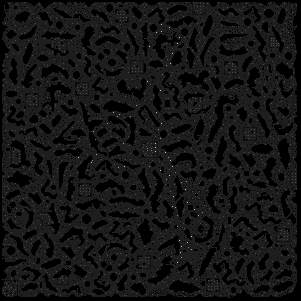
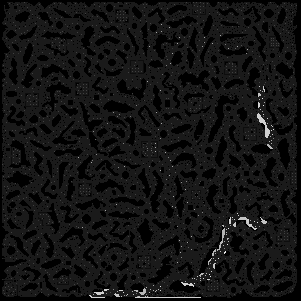
修改文案提示的坐标为可用示例，地图信息更新

diff --git a/python/game_map/mori_best_way_find.py b/python/game_map/mori_best_way_find.py
@@ -25,6 +25,11 @@ from config.mori_map_config import SCALE_SIZE
 11 位置 132 94  C00000 [240, 240, 240] 深红  帐篷-fgColor.rgb 
 12 位置 162 32  4290FF [ 66, 144, 255] 青蓝  工厂-fgColor.rgb 
 13 位置 170 28  A219FF [162,  25, 255] 浅紫  房屋-fgColor.rgb 
+14 位置 261 91  598F38 [ 89, 143,  56] 深绿  热带树-fgColor.rgb 
+15 位置 264 87  E5F3F1 [229, 243, 241] 白灰  石头-fgColor.rgb 
+16 位置 260 87  355522 [ 53,  85,  34] 深绿  深绿树-fgColor.rgb 
+17 位置 274 130 BEFF9E [190, 255, 158] 浅绿  带花草-fgColor.rgb 
+18 位置 263 99  89FF8B [137, 255, 139] 浅绿  小草-fgColor.rgb 
 """
 type_map = {
     0: {"name": "草地岩石", "useful": False, "reach": False},
@@ -41,7 +46,11 @@ type_map = {
     11: {"name": "帐篷", "useful": True, "reach": True},
     12: {"name": "工厂", "useful": True, "reach": True},
     13: {"name": "房屋", "useful": True, "reach": True},
-
+    14: {"name": "热带树", "useful": False, "reach": False},
+    15: {"name": "石头", "useful": False, "reach": False},
+    16: {"name": "深绿树", "useful": False, "reach": False},
+    17: {"name": "带花草", "useful": False, "reach": False},
+    18: {"name": "小草", "useful": False, "reach": False},
 }
 
 global_result_map = None
@@ -205,20 +214,20 @@ def get_the_way_between_2_point(map, result_map, start_point, end_point, row_n, 
             if cur_p.y > pre_p.y:
                 msg = ("第{}次:向下走{}步到达({},{})".format(step, cur_p.y - pre_p.y, cur_p.x + 1, cur_p.y + 1))
                 if move >= steps and steps > 0:
-                    msg += "\n第{}步你将停留在{},{}".format(steps_bak, pre_p.x + 1, pre_p.y + 1 + steps)
+                    msg += "\n第{}步你将【停留在{},{}】".format(steps_bak, pre_p.x + 1, pre_p.y + 1 + steps)
             if cur_p.y < pre_p.y:
                 msg = ("第{}次:向上走{}步到达({},{})".format(step, pre_p.y - cur_p.y, cur_p.x + 1, cur_p.y + 1))
                 if move >= steps and steps > 0:
-                    msg += "\n第{}步你将停留在{},{}".format(steps_bak, pre_p.x + 1, pre_p.y + 1 - steps)
+                    msg += "\n第{}步你将【停留在{},{}】".format(steps_bak, pre_p.x + 1, pre_p.y + 1 - steps)
         if cur_p.y == pre_p.y:
             if cur_p.x > pre_p.x:
                 msg = ("第{}次:向右走{}步到达({},{})".format(step, cur_p.x - pre_p.x, cur_p.x + 1, cur_p.y + 1))
                 if move >= steps and steps > 0:
-                    msg += "\n第{}步你将停留在{},{}".format(steps_bak, pre_p.x + 1 + steps, pre_p.y + 1)
+                    msg += "\n第{}步你将【停留在{},{}】".format(steps_bak, pre_p.x + 1 + steps, pre_p.y + 1)
             if cur_p.x < pre_p.x:
                 msg = ("第{}次:向左走{}步到达({},{})".format(step, pre_p.x - cur_p.x, cur_p.x + 1, cur_p.y + 1))
                 if move >= steps and steps > 0:
-                    msg += "\n第{}步你将停留在{},{}".format(steps_bak, pre_p.x + 1 - steps, pre_p.y + 1)
+                    msg += "\n第{}步你将【停留在{},{}】".format(steps_bak, pre_p.x + 1 - steps, pre_p.y + 1)
         steps -= move
         if way_buildings:
             msg = msg + "\n路上经过{}".format(str(way_buildings))

diff --git a/java/little-ant-common/src/main/java/com/ant/little/common/constents/ResponseTemplateConstants.java b/java/little-ant-common/src/main/java/com/ant/little/common/constents/ResponseTemplateConstants.java
@@ -11,13 +11,13 @@ public class ResponseTemplateConstants {
 //    public static String CAN_NOT_FIND_ANSWER_SERVICE = "找不到相关指令@.@!,等待管理员查看后处理哈^_^\n(或者查看相关文档确认一下输入格式)";
     public static String CAN_NOT_FIND_ANSWER_SERVICE = "欢迎关注，点击下方菜单生存之路->指令教程可查看详细指令。或者点击右上角查看文章列表找到指令攻略。\n" +
         "\n" +
-        "最短路径指令：至少输入3行,2个点坐标,换行分割点,空格分割坐标。最后一行可不填，表示你的剩余步数，如下所示\n" +
+        "最短路径指令：计算到目标点最短路线。至少输入3行,2个点坐标,换行分割点,空格分割坐标。最后一行可不填，表示你的剩余步数，如下所示\n" +
         "最短路径\n" +
         "59 189\n" +
         "86 229\n" +
         "54" +
         "\n" +
-        "最佳路线指令：输入5行,4个点坐标,换行分割点,空格分割坐标。如下所示\n" +
+        "最佳路线指令：可计算出宝箱寻找顺序，让总步数最少。输入5行,4个点坐标,换行分割点,空格分割坐标。如下所示\n" +
         "最佳路线\n" +
         "202 213\n" +
         "59 189\n" +

diff --git a/python/config/mori_map_config.py b/python/config/mori_map_config.py
@@ -1,3 +1,3 @@
 #!/usr/bin/env python3
 # -*- coding: utf-8 -*-
-SCALE_SIZE = 15
+SCALE_SIZE = 13
